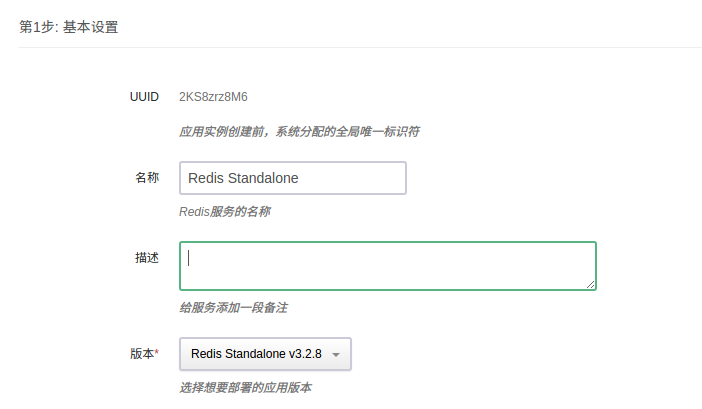
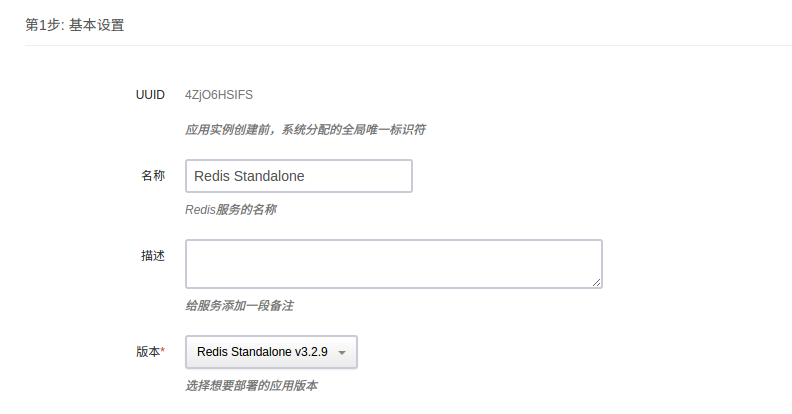
chang version info

diff --git a/docs/redis-standalone/README.md b/docs/redis-standalone/README.md
@@ -4,7 +4,7 @@
 
    **[Redis](https://redis.io/)**是一个使用ANSI C编写的开源、支持网络、基于内存、可选持久性的键值对存储数据库。
 
-**Redis standalone on QingCloud** 将 **Redis** 封装成 App， 支持在 AppCenter 上一键部署，在原生 **Redis** 的基础上增加了其易用性、高可用的特性，免去您维护的烦恼。细致说来，具有如下特性：
+**Redis standalone on QingCloud** 将 **Redis** 封装成 App，采用 **Redis** 最近的稳定版本 3.2.9 构建， 支持在 AppCenter 上一键部署，在原生 **Redis** 的基础上增加了其易用性、高可用的特性，免去您维护的烦恼。细致说来，具有如下特性：
 
 - 高可用性。
 
@@ -28,7 +28,7 @@
 
 ### 一. 选择基本配置
 
-      填写集群的名称，描述，选择应用的版本 _Redis_standalone_v3.2.8_
+      填写集群的名称，描述，选择应用的版本 _Redis_standalone_v3.2.9_
 
 ![服务名称](../../images/redis-standalone/base_step_1.png)
 
@@ -74,11 +74,9 @@
 
 ### 伸缩节点
 
-	您可以从三个节点减少到一个节点，任意删除两个节点即可。由于您可能删除主节点，会造成服务的短暂不可用(约5s)，所以请在服务压力较小的情况下减少节点，剩下的节点就会一主节点继续提供服务。
+	您可以从三个节点减少到一个节点，任意删除两个节点即可。由于您可能删除主节点，会造成服务的短暂不可用(约5s)，所以请在服务压力较小的情况下减少节点，剩下的节点就会以主节点继续提供服务。
 
-	您也可以从一个几点增加到三节点，增加节点的过程中服务不会断开，为在线升级方式。从单节点增加到三节点后，集群将自动拥有主从切换的能力，无需任何额外操作。
-
-
+	您也可以从一个几点增加到三节点，增加节点的过程中服务不会停止，为在线升级方式。从单节点增加到三节点后，集群将自动拥有主从切换的能力，无需任何额外操作。
 
 ### 测试服务
 
